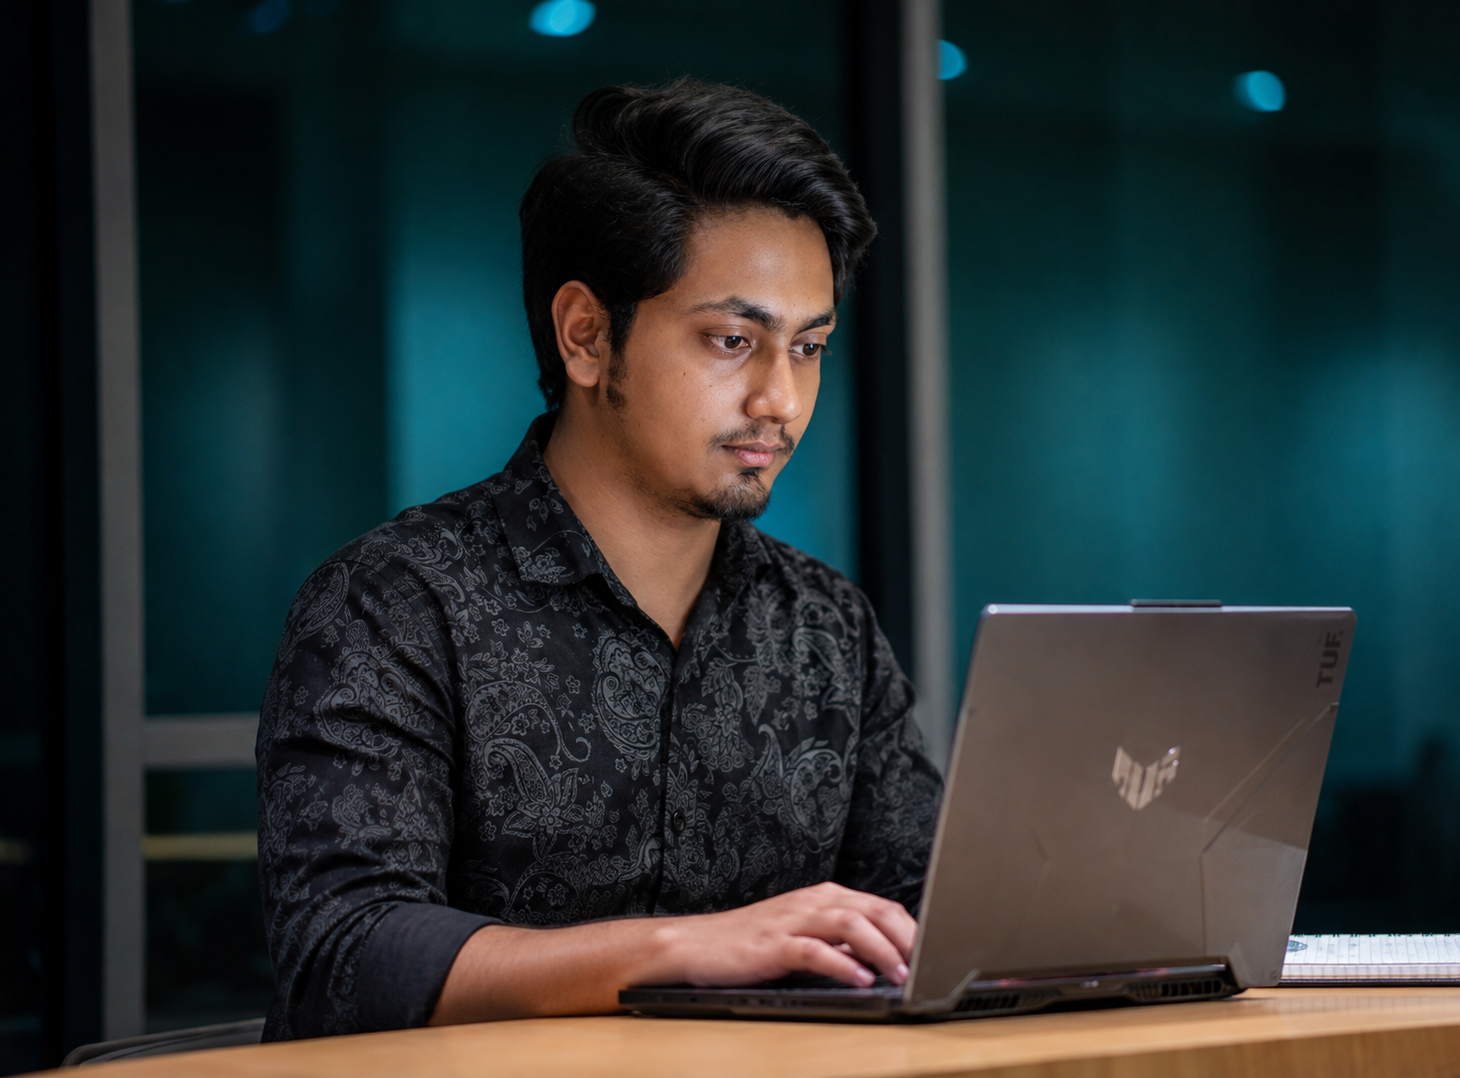
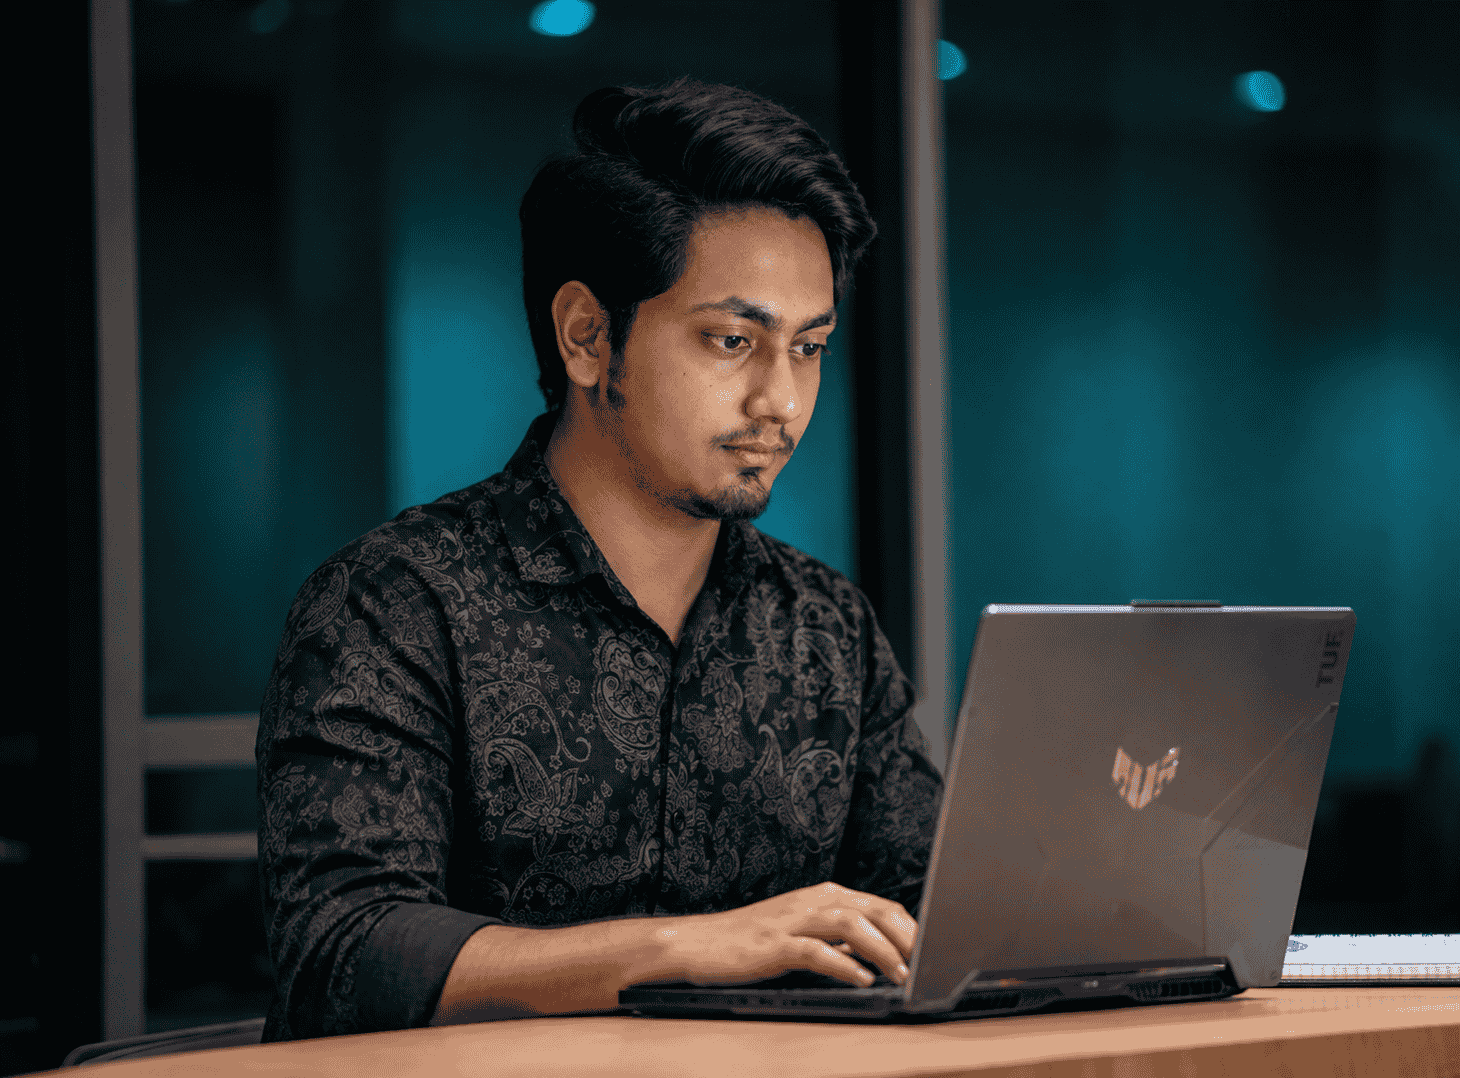
Updated interaction!
1. Replaced the image with compressed one.
2. Added ai-questions for natural AI conversation feel.

diff --git a/js/markdown-loader.js b/js/markdown-loader.js
@@ -2,12 +2,50 @@
 // MARKDOWN LOADER
 // ==========================================
 
+async function loadMarkdown(filename) {
+    const response = await fetch(`assets/md/${filename}`);
+
+    if (!response.ok) {
+        throw new Error(`Failed to load ${filename}: ${response.status}`);
+    }
+
+    return await response.text();
+}
+
+
+// ==========================================
+// MARKDOWN PROFILE
+// ==========================================
+
 async function loadMarkdownProfile(filename) {
+    const markdown = await loadMarkdown(filename);
+    return markdown + await aiQuestion();
+}
 
-    let markdown = await fetch(
-        `assets/md/${filename}`
-    ).then(res => res.text());
-    
-    return markdown;
 
+// ==========================================
+// AI QUESTION MIXER
+// ==========================================
+
+async function aiQuestion() {
+    const questions = await loadMarkdown("ai-questions.md");
+
+    const questionList = questions
+        .split("\n")
+        .map(question => question.trim())
+        .filter(Boolean);
+
+    if (questionList.length === 0) {
+        return "";
+    }
+
+    const randomQuestion =
+        questionList[Math.floor(Math.random() * questionList.length)];
+
+    return `
+
+---
+
+${randomQuestion}
+`;
 }

diff --git a/index.html b/index.html
@@ -52,7 +52,7 @@
             <span>New Chat</span>
           </button>
 
-          <button class="new-chat-btn">
+          <button class="new-chat-btn" onclick="window.location.href='https://tools.mj46.in/'">
             <span><i data-lucide="wrench"></i></span>
             <span>Tools</span>
           </button>

diff --git a/js/knowledge-base.js b/js/knowledge-base.js
@@ -149,7 +149,8 @@ const knowledgeBase = [
             "where has abin worked",
             "where does abin work",
             "resume",
-            "cv"
+            "cv",
+            "work"
         ]
     },
 

diff --git a/assets/md/projects.md b/assets/md/projects.md
@@ -2,6 +2,10 @@
 
 <div align="center">
 
+<a href="https://github.com/MJTech46/DJANGO-ProtectedText-clone">
+  <img src="/assets/img/project/DJANGO-ProtectedText-clone.png" >
+</a>
+
 ### 🔒 [ProtectedText Clone](https://github.com/MJTech46/DJANGO-ProtectedText-clone)
 ![Django](https://img.shields.io/badge/Django-092E20?style=for-the-badge&logo=django&logoColor=white) ![Bootstrap](https://img.shields.io/badge/Bootstrap-7952B3?style=for-the-badge&logo=bootstrap&logoColor=white) ![JavaScript](https://img.shields.io/badge/JavaScript-F7DF1E?style=for-the-badge&logo=javascript&logoColor=black)
 
@@ -10,6 +14,9 @@ A full-stack web clone of ProtectedText.com with secure note storage, featuring 
 ⭐ **13 Stars** • 🔗 [View Repository](https://github.com/MJTech46/DJANGO-ProtectedText-clone)
 
 ---
+<a href="https://github.com/MJTech46/FLASK-URL-shortener">
+  <img src="/assets/img/project/FLASK-URL-shortener.png">
+</a>
 
 ### 🔗 [Flask URL Shortener](https://github.com/MJTech46/FLASK-URL-shortener)
 ![Flask](https://img.shields.io/badge/Flask-000000?style=for-the-badge&logo=flask&logoColor=white) ![Python](https://img.shields.io/badge/Python-3776AB?style=for-the-badge&logo=python&logoColor=white) ![HTML5](https://img.shields.io/badge/HTML5-E34F26?style=for-the-badge&logo=html5&logoColor=white)
@@ -19,6 +26,9 @@ A clean web utility engineered to generate shortened URLs while demonstrating co
 ⭐ **11 Stars** • 🔗 [View Repository](https://github.com/MJTech46/FLASK-URL-shortener)
 
 ---
+<a href="https://github.com/MJTech46/PYGAME-Mazer-ball">
+  <img src="/assets/img/project/PYGAME-Mazer-ball.png" >
+</a>
 
 ### 🎮 [Pygame Mazer Ball](https://github.com/MJTech46/PYGAME-Mazer-ball)
 ![Python](https://img.shields.io/badge/Python-3776AB?style=for-the-badge&logo=python&logoColor=white) ![Pygame](https://img.shields.io/badge/Pygame-111111?style=for-the-badge&logo=python&logoColor=white)
@@ -28,6 +38,9 @@ An interactive 2D arcade game featuring dynamic maze navigation, obstacle collis
 ⭐ **10 Stars** • 🔗 [View Repository](https://github.com/MJTech46/PYGAME-Mazer-ball)
 
 ---
+<a href="https://github.com/MJTech46/PY-rule-based-chatbot">
+  <img src="/assets/img/project/PY-rule-based-chatbot.png" >
+</a>
 
 ### 🤖 [Rule-Based Chatbot](https://github.com/MJTech46/PY-rule-based-chatbot)
 ![Python](https://img.shields.io/badge/Python-3776AB?style=for-the-badge&logo=python&logoColor=white)
@@ -37,6 +50,9 @@ A conversational assistant built with Python utilizing predefined decision trees
 ⭐ **8 Stars** • 🔗 [View Repository](https://github.com/MJTech46/PY-rule-based-chatbot)
 
 ---
+<a href="https://github.com/MJTech46/PY-Offline-TTS">
+  <img src="/assets/img/project/PY-Offline-TTS.png" >
+</a>
 
 ### 🎙 [Offline Text-To-Speech Engine](https://github.com/MJTech46/PY-Offline-TTS)
 ![Python](https://img.shields.io/badge/Python-3776AB?style=for-the-badge&logo=python&logoColor=white)
@@ -46,6 +62,9 @@ A lightweight TTS utility built with Python 3 designed to generate voice audio c
 🔗 [View Repository](https://github.com/MJTech46/PY-Offline-TTS)
 
 ---
+<a href="https://github.com/MJTech46/MCDataPack-MJCoordinates">
+  <img src="/assets/img/project/MCDataPack-MJCoordinates.png" >
+</a>
 
 ### ⛏ [Minecraft Coordinate Display Datapack](https://github.com/MJTech46/MCDataPack-MJCoordinates)
 ![Minecraft](https://img.shields.io/badge/Minecraft-388E3C?style=for-the-badge&logo=minecraft&logoColor=white)

diff --git a/assets/md/ai-questions.md b/assets/md/ai-questions.md
@@ -1,0 +1,14 @@
+Would you like to know what Abin considers his strongest technical skill and learn more about how he has developed and applied that skill across his projects? Type the keyword "skills" to explore Abin's strongest skills.
+Would you like me to take you through Abin's latest project, explaining what the project does, which technologies were used, and how the different parts work together? Type the keyword "project" to explore his latest project.
+Would you like to find out how you can get in touch with Abin for professional opportunities, collaboration, project discussions, or other inquiries? Type the keyword "contact" to see Abin's contact information.
+Would you like to learn about Abin's educational journey, including how his academic studies helped him build a foundation in computer science and develop his interest in technology? Type the keyword "education" to explore his educational journey.
+Would you like to see Abin's latest photograph and get a visual introduction to the person behind the projects and work presented here? Type the keyword "photo" to view his latest photo.
+Would you like to see a behind-the-scenes image that gives you a glimpse into Abin's workspace, projects, development activities, or the work that happens beyond the final results? Type the keyword "photo" to explore a behind-the-scenes image.
+Would you like to discover what Abin enjoys doing outside of programming and academics, including some of his current hobbies and personal interests? Type the keyword "hobbies" to see his current hobbies.
+Would you like to learn about the goals Abin is currently working toward, including the skills, projects, and professional milestones he hopes to accomplish in the near future? Type the keyword "goals" to explore his short-term goals.
+Would you like to learn about Abin's long-term vision and where he hopes to take his career, technical skills, projects, and ideas in the years ahead? Type the keyword "vision" to discover his long-term vision.
+Would you like me to give you a summary of Abin's previous work experience, including the roles, organizations, responsibilities, and practical experience he has gained throughout his journey? Type the keyword "experience" to view his past work experience.
+Would you like to understand how Abin's previous work experience helped him develop practical programming skills, improve his problem-solving abilities, and become more confident working on real-world projects? Type the keyword "work" to learn how his experience shaped his skills.
+Would you like to explore Abin's academic background in more detail, including his degree, field of study, institution, and the academic path that led him toward a career in technology? Type the keyword "academic" to view his academic background.
+Would you like me to highlight Abin's most recent educational qualification and explain what he studied, where he studied it, and how it contributes to his current technical career? Type the keyword "qualification" to see his latest qualification.
+Would you like to learn more about Abin's college experience, including the college he attended, his field of study, and the year he is expected to complete or completed his graduation? Type the keyword "college" to explore his college and graduation details.

diff --git a/assets/md/who-is-abin-santhosh.md b/assets/md/who-is-abin-santhosh.md
@@ -6,7 +6,7 @@
 
 <div align="center">
 
-[![GitHub](https://img.shields.io/badge/GitHub-181717?style=for-the-badge&logo=github&logoColor=white)](https://github.com/abinsanthosh19) [![LinkedIn](https://img.shields.io/badge/LinkedIn-0077B5?style=for-the-badge&logo=linkedin&logoColor=white)](https://www.linkedin.com/in/abinsanthosh19) [![Instagram](https://img.shields.io/badge/Instagram-E4405F?style=for-the-badge&logo=instagram&logoColor=white)](https://www.instagram.com/abinsanthosh19) [![Email](https://img.shields.io/badge/Email-EA4335?style=for-the-badge&logo=gmail&logoColor=white)](mailto:abinsanthosh19@gmail.com)
+[![GitHub](https://img.shields.io/badge/GitHub-181717?style=for-the-badge&logo=github&logoColor=white)](https://github.com/abinsanthosh19) [![LinkedIn](https://img.shields.io/badge/LinkedIn-0077B5?style=for-the-badge&logo=linkedin&logoColor=white)](https://www.linkedin.com/in/abinsanthosh19) [![Instagram](https://img.shields.io/badge/Instagram-E4405F?style=for-the-badge&logo=instagram&logoColor=white)](https://www.instagram.com/abinsanthosh19) [![Email](https://img.shields.io/badge/Email-EA4335?style=for-the-badge&logo=gmail&logoColor=white)](mailto:abinsanthosh19@gmail.com) [![Website](https://img.shields.io/badge/My%20Tools-FF5722?style=for-the-badge&logo=google-chrome&logoColor=white)](https://tools.mj46.in)
 
 </div>
 
@@ -38,6 +38,8 @@ Building useful software, experimenting with AI, and contributing to open source
 - 🎙 Offline [Text-To-Speech](https://github.com/MJTech46/PY-Offline-TTS) App using [Kokoro](https://github.com/thewh1teagle/kokoro-onnx)
 - 🤖 AI-Powered [Water Quality](https://github.com/MJTech46/MainProject-Water-Quality-Detection) Detection System
 - 📄 Secure [Text Storage](https://github.com/MJTech46/DJANGO-ProtectedText-clone) with Client-Side Encryption
+- 📥 Coordinate display [DataPack](https://github.com/MJTech46/MCDataPack-MJCoordinates) for Minecraft.
+- 🛠 JS‑based [utilities Tools](https://github.com/MJTech46/JS-Tools) for quick client-side web tasks.
 - 📦 Building & Contributing to Open Source Projects
 
 ---
